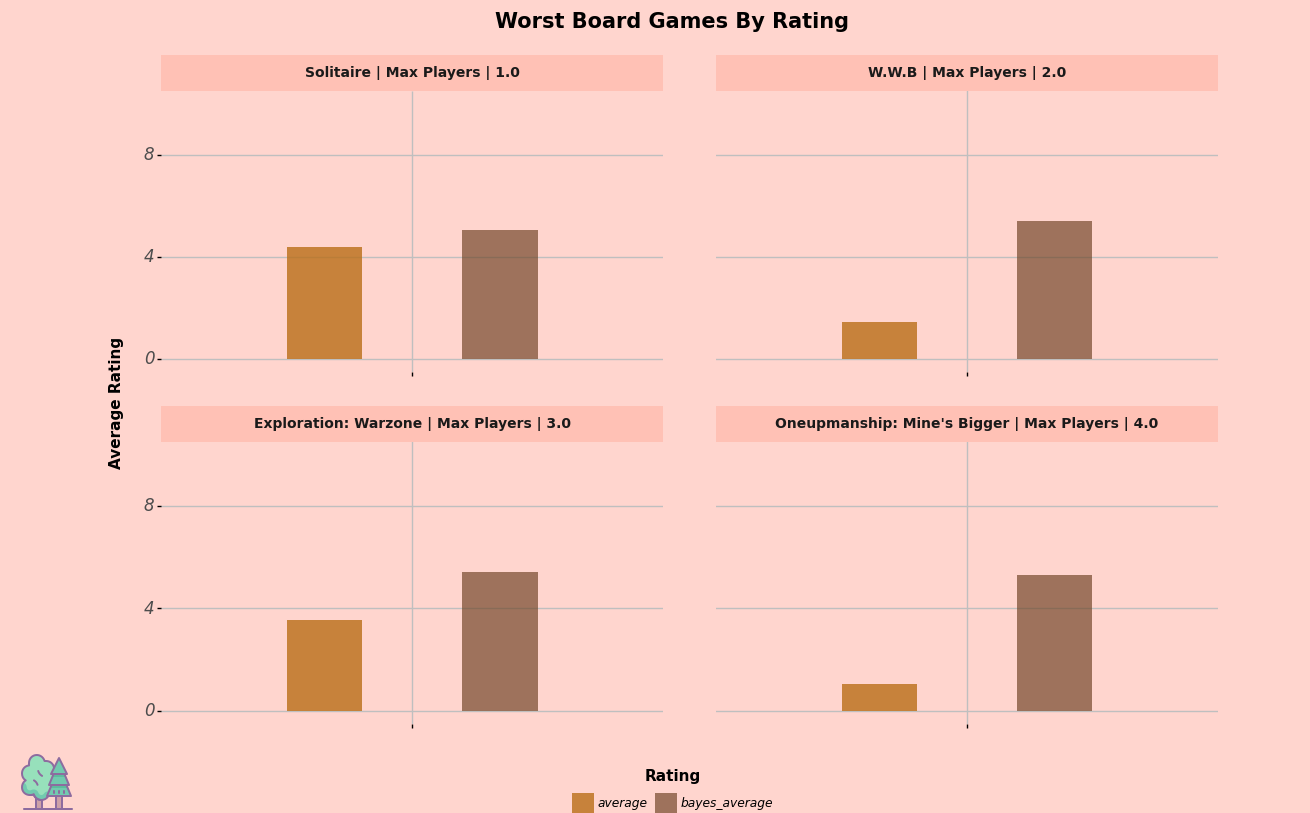
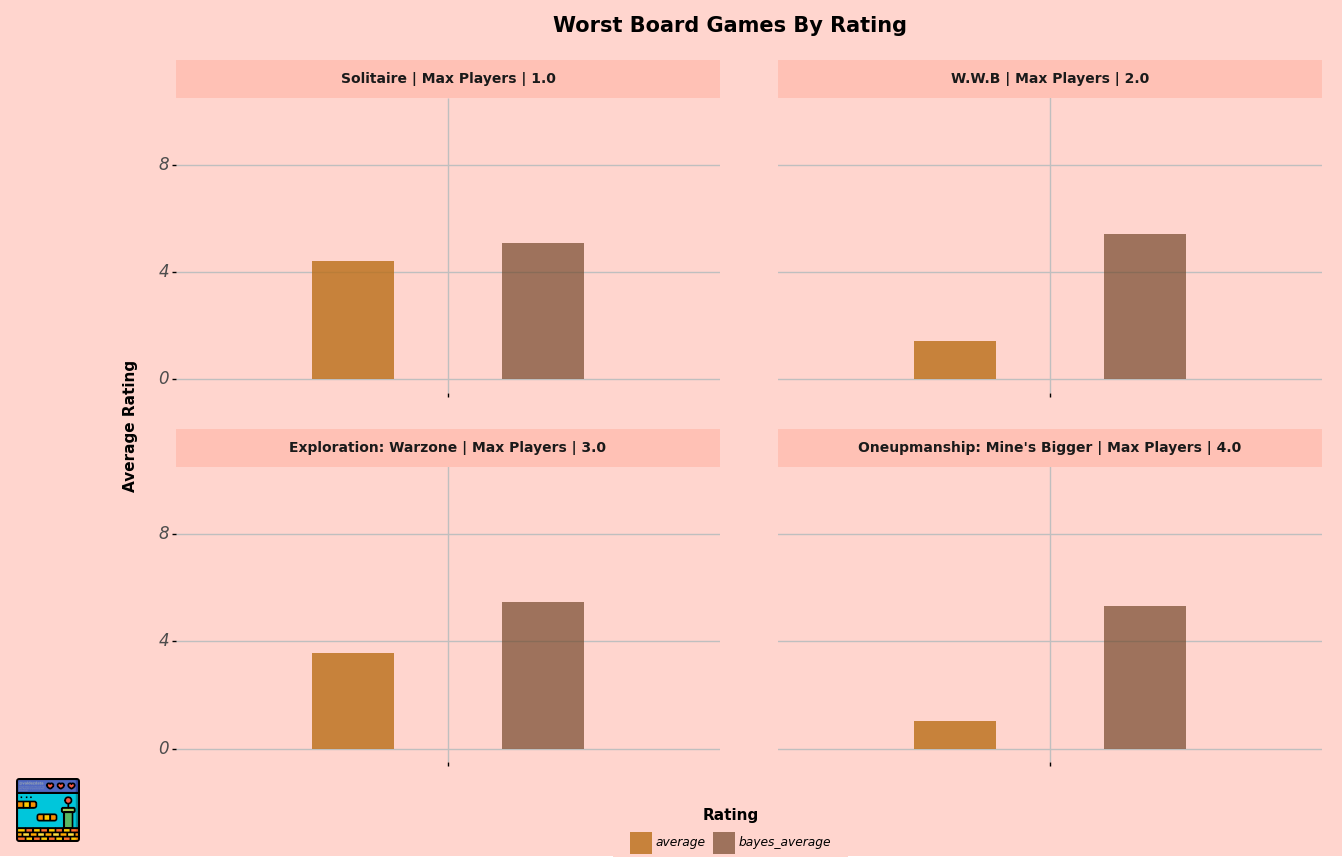
updated plots

diff --git a/2022/W08_freedom/code.py b/2022/W08_freedom/code.py
@@ -9,8 +9,6 @@
 import pandas as pd
 import janitor as jr
 import valdezds as vds
-import geopandas as gp
-import plotnine as p9
 
 vds.getwd() # Confirm working directory
 
@@ -21,18 +19,17 @@ pd.set_option('display.width', None)
 pd.set_option('display.max_colwidth', None)
 
 # Read data
-df = pd.read_csv("2022/W07_duBois/data.csv").clean_names()
+df = pd.read_csv("https://raw.githubusercontent.com/rfordatascience/tidytuesday/master/data/2022/2022-02-22/freedom.csv").clean_names()
 
 # Clipboard
 df.to_clipboard(index=False)
-jr.shuffle(df, random_state=49).to_clipboard(index=False)
+jr.shuffle(df, random_state=123).to_clipboard(index=False)
 
-# Quick EDA
+# EDA
 df.info()
 df.isnull().sum()
 df.shape
 jr.get_dupes(df)
-
 
 # ============================================================================ #
 # 2.0 Data Wrangling
@@ -42,17 +39,24 @@ jr.get_dupes(df)
 # 2.1 Python
 # ============================================================================ #
 
-# Getting united states geographical data
-us_states_geo = gp.read_file("https://raw.githubusercontent.com/sunny2309/datasets/master/us-states.json")
-us_states_geo.to_clipboard()
+(
+    df.query("year == 2020")
+    .select_columns(["country", "status", "region_name"])
+    .case_when(
+        df.status == "F", "Free",
+        df.status == "PF", "Partially Free",
+        df.status == "NF", "Not Free",
+        "N/A",
+        column_name="status"
+    )
+)
 
-# Join
-us_map = pd.merge(us_states_geo, df, how="left", left_on="id", right_on="state")
-us_map.to_clipboard()
+# https://geopandas.org/en/stable/docs/user_guide/mergingdata.html
+
+# Atribute Joins search link
 
 # ============================================================================ #
 # 2.1.1 Save to CSV
-us_map.to_csv("2022/W07_duBois/data_duBios.csv", index=False)
 
 
 # ============================================================================ #
@@ -69,8 +73,6 @@ q = """
 
 pysqldf(q)
 
-# Does not apply
-
 
 # ============================================================================ #
 # 3.0 Plot
@@ -80,29 +82,11 @@ pysqldf(q)
 # 3.1 Plotnine
 # ============================================================================ #
 
-(
-    p9.ggplot() +
-    p9.geom_map(data=us_map, mapping=p9.aes(fill="population", color="population")) +
-    # p9.guides(fill=p9.guide_legend(title="", ncol=2)) +
-    p9.xlim(-170, -60) +
-    p9.ylim(25, 72) +
-    p9.theme_void() +
-    p9.theme(
-        subplots_adjust={'hspace': 0.25},
-        figure_size=(10,6),
-        legend_position="top",
-        plot_title=p9.element_text(face="bold", size=15),
-        plot_background=p9.element_rect(fill="#E2D0BF"),
-    ) +
-    p9.watermark("./vdicon.png", xo=25, yo=15)
-)
-
 # ============================================================================ #
 # 3.2 Tableau
 # ============================================================================ #
 
-# Link:
-# https://public.tableau.com/app/profile/omar.valdez/viz/TidyTuesdayW07_duBois/Sheet1
+
 
 # ============================================================================ #
 # END

diff --git a/2022/W04_boardGames/code.py b/2022/W04_boardGames/code.py
@@ -280,7 +280,7 @@ pysqldf(q)
         strip_text_x=p9.element_text(face="bold", size=10)) +
     
     # watermark
-    p9.watermark("./iconvaldezdata.png", xo=25)
+    p9.watermark("./vdicon.png", xo=25, yo=15)
 )
 
 # ============================================================================ #
@@ -329,7 +329,7 @@ pysqldf(q)
         strip_text_x=p9.element_text(face="bold", size=10)) +
     
     # watermark
-    p9.watermark("./iconvaldezdata.png", xo=25)
+    p9.watermark("./vdicon.png", xo=25, yo=15)
 )
 
 # Tableau

diff --git a/2022/W02_beeColonies/code.py b/2022/W02_beeColonies/code.py
@@ -98,7 +98,7 @@ pysqldf(q)
  + p9.coord_flip()
  + p9.scale_y_continuous(breaks = [25000,50000,75000,100000],
                       labels = ["25,000", "50,000", "75,000", "100,000"])
- + p9.watermark("./iconvaldezdata.png")
+ + p9.watermark("./vdicon.png", xo=25, yo=15)
  + p9.labs(
      x = "",
      y = "",

diff --git a/2022/W03_chocolate/code.py b/2022/W03_chocolate/code.py
@@ -84,6 +84,7 @@ pysqldf(q)
 (p9.ggplot(dta_pct)
  + p9.aes(x = "n_count", y = "country_of_bean_origin", fill = "avg_pct")
  + p9.geom_tile(stat = "identity")
+ + p9.watermark("./vdicon.png", xo=25, yo=15)
 )
 
 # No geom_treemap available (Package treemapify in R)

diff --git a/2022/W06_tuskegee/code.py b/2022/W06_tuskegee/code.py
@@ -144,7 +144,7 @@ pysqldf(q)
     ) +
     
     # watermark
-    p9.watermark("./iconvaldezdata.png", xo=25)
+    p9.watermark("./vdicon.png", xo=25, yo=15)
 )
 
 # ============================================================================ #
